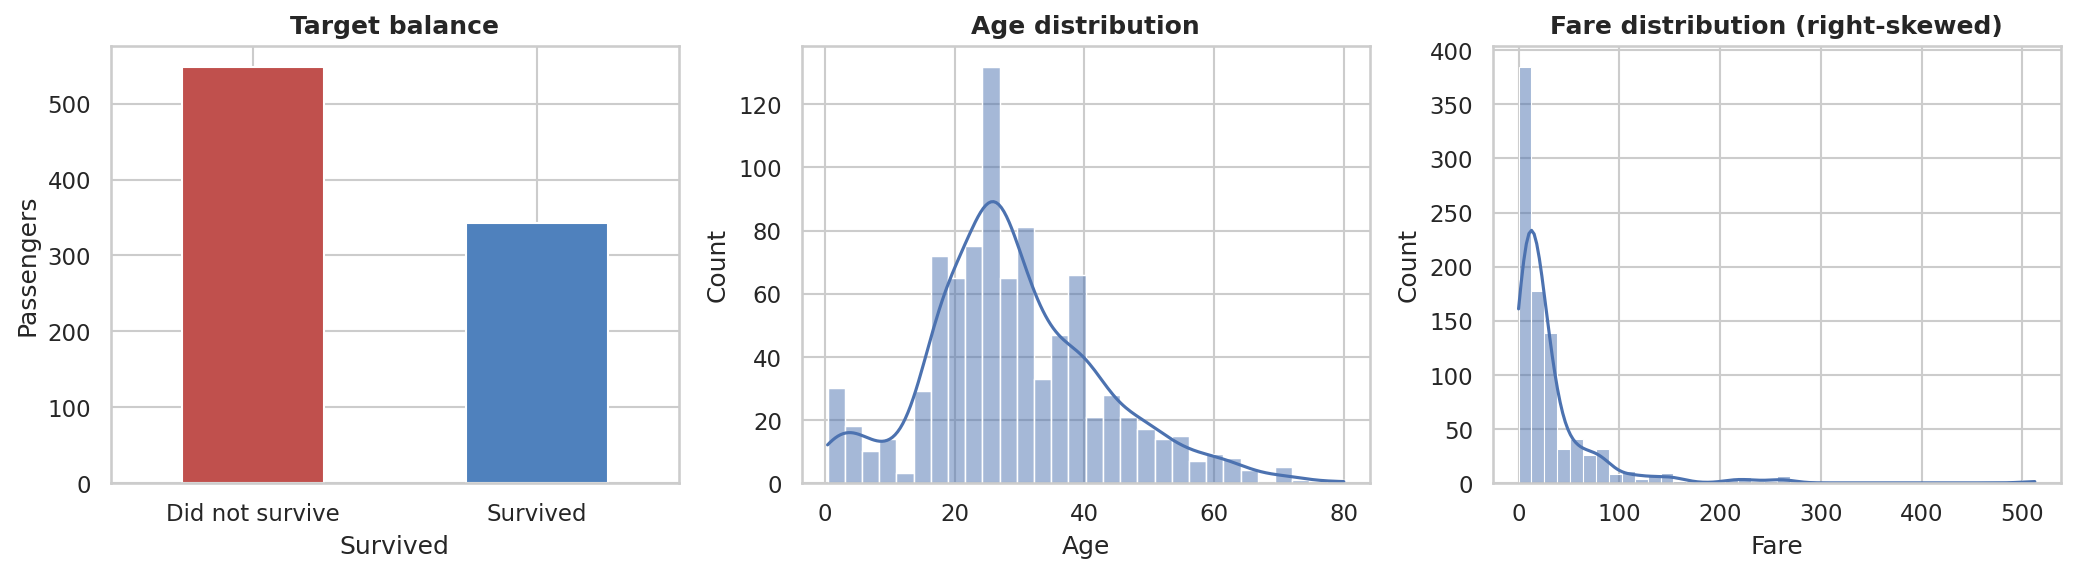
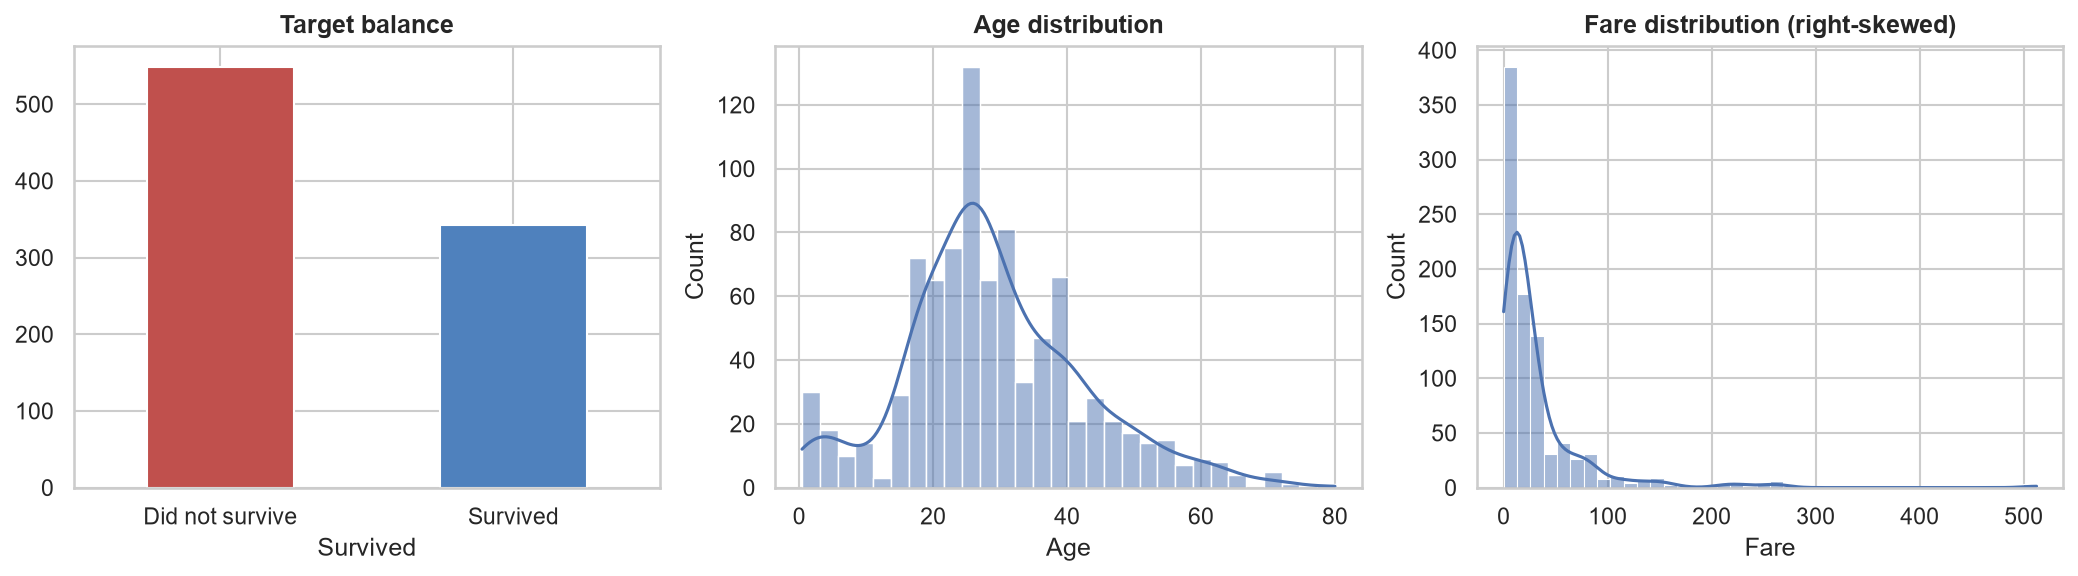
Add eda.py: run full EDA as a single script

diff --git a/src/eda.py b/src/eda.py
@@ -1,0 +1,205 @@
+"""
+eda.py  --  Task 2: Exploratory Data Analysis on the cleaned Titanic dataset.
+
+Run the whole analysis in one go from the project root:
+    python src/eda.py
+
+What it does:
+  1. Loads data/titanic_clean.csv (output of Task 1)
+  2. Prints summary statistics, survival rates and statistical tests
+  3. Saves 8 charts to reports/figures/
+  4. Prints the key insights at the end
+
+Add --show to also pop up each chart window (close a window to continue).
+"""
+
+import argparse
+import os
+
+import matplotlib
+import numpy as np
+import pandas as pd
+from scipy import stats
+
+parser = argparse.ArgumentParser()
+parser.add_argument("--input", default="data/titanic_clean.csv")
+parser.add_argument("--figdir", default="reports/figures")
+parser.add_argument("--show", action="store_true", help="display charts as pop-up windows")
+args = parser.parse_args()
+
+if not args.show:
+    matplotlib.use("Agg")  # save-only mode, no windows
+
+import matplotlib.pyplot as plt  # noqa: E402
+import seaborn as sns  # noqa: E402
+
+sns.set_theme(style="whitegrid", palette="deep")
+plt.rcParams.update({"figure.dpi": 110, "axes.titlesize": 12, "axes.titleweight": "bold"})
+os.makedirs(args.figdir, exist_ok=True)
+pd.set_option("display.width", 140)
+pd.set_option("display.max_columns", 20)
+
+
+def section(title):
+    print("\n" + "=" * 70)
+    print(title)
+    print("=" * 70)
+
+
+def save(name):
+    plt.tight_layout()
+    path = os.path.join(args.figdir, f"{name}.png")
+    plt.savefig(path, dpi=150, bbox_inches="tight")
+    print(f"  [chart saved] {path}")
+    if args.show:
+        plt.show()
+    plt.close()
+
+
+# ---------------------------------------------------------------- 1. load
+section("1. LOAD DATA")
+df = pd.read_csv(args.input)
+df["Pclass"] = df["Pclass"].astype("category")
+print(f"Loaded {args.input}: {df.shape[0]} rows x {df.shape[1]} columns")
+print(f"Missing values: {int(df.isna().sum().sum())}")
+print(df.head())
+
+# ---------------------------------------------------------------- 2. stats
+section("2. SUMMARY STATISTICS")
+print(df[["Age", "SibSp", "Parch", "FamilySize", "Fare"]].describe().T.round(2))
+print(f"\nOverall survival rate: {df.Survived.mean() * 100:.1f}%")
+print(f"Skewness -> Fare: {df.Fare.skew():.2f} | Age: {df.Age.skew():.2f}")
+q1, q3 = df.Fare.quantile([0.25, 0.75])
+print(f"Fare outliers (1.5*IQR rule): {int((df.Fare > q3 + 1.5 * (q3 - q1)).sum())} passengers")
+
+# ---------------------------------------------------------------- 3. distributions
+section("3. DISTRIBUTIONS")
+fig, ax = plt.subplots(1, 3, figsize=(14, 4))
+df.Survived.map({0: "Did not survive", 1: "Survived"}).value_counts().plot.bar(
+    ax=ax[0], color=["#c0504d", "#4f81bd"], rot=0)
+ax[0].set_title("Target balance")
+sns.histplot(df.Age, bins=30, kde=True, ax=ax[1]); ax[1].set_title("Age distribution")
+sns.histplot(df.Fare, bins=40, kde=True, ax=ax[2]); ax[2].set_title("Fare distribution (right-skewed)")
+save("01_target_age_fare_distributions")
+
+fig, ax = plt.subplots(1, 2, figsize=(11, 4))
+sns.histplot(np.log1p(df.Fare), bins=30, kde=True, ax=ax[0]); ax[0].set_title("log(1 + Fare) is far more symmetric")
+sns.boxplot(x=df.Fare, ax=ax[1]); ax[1].set_title("Fare outliers")
+save("02_fare_log_and_outliers")
+
+# ---------------------------------------------------------------- 4. survival by category
+section("4. SURVIVAL BY SEX, CLASS AND PORT")
+fig, ax = plt.subplots(1, 3, figsize=(14, 4))
+for a, col in zip(ax, ["Sex", "Pclass", "Embarked"]):
+    sns.barplot(data=df, x=col, y="Survived", errorbar=("ci", 95), ax=a)
+    a.set_title(f"Survival rate by {col}"); a.set_ylim(0, 1)
+save("03_survival_by_sex_class_port")
+for col in ["Sex", "Pclass", "Embarked"]:
+    print(f"\nSurvival rate by {col}:")
+    print(df.groupby(col, observed=True).Survived.agg(["mean", "count"]).round(3))
+
+pivot = df.pivot_table(index="Sex", columns="Pclass", values="Survived", aggfunc="mean", observed=True)
+plt.figure(figsize=(6, 3.5))
+sns.heatmap(pivot, annot=True, fmt=".2f", cmap="RdYlGn", vmin=0, vmax=1)
+plt.title("Survival rate: Sex x Class")
+save("04_heatmap_sex_class")
+print("\nSurvival rate: Sex x Class")
+print(pivot.round(2))
+
+# ---------------------------------------------------------------- 5. age, fare, family
+section("5. AGE, FARE AND FAMILY EFFECTS")
+df["AgeBand"] = pd.cut(df.Age, [0, 12, 18, 35, 60, 100],
+                       labels=["Child (0-12)", "Teen (13-18)", "Adult (19-35)", "Middle (36-60)", "Senior (60+)"])
+df["FareQuartile"] = pd.qcut(df.Fare, 4, labels=["Q1 (lowest)", "Q2", "Q3", "Q4 (highest)"])
+fig, ax = plt.subplots(1, 2, figsize=(12, 4))
+sns.barplot(data=df, x="AgeBand", y="Survived", errorbar=None, ax=ax[0])
+ax[0].set_title("Survival by age band"); ax[0].tick_params(axis="x", rotation=20)
+sns.barplot(data=df, x="FareQuartile", y="Survived", errorbar=None, ax=ax[1])
+ax[1].set_title("Survival by fare quartile")
+save("05_survival_by_age_and_fare")
+print(df.groupby("AgeBand", observed=True).Survived.agg(["mean", "count"]).round(3))
+print(df.groupby("FareQuartile", observed=True).Survived.agg(["mean", "count"]).round(3))
+
+fs = df.groupby("FamilySize").Survived.agg(["mean", "count"]).reset_index()
+fig, ax = plt.subplots(1, 2, figsize=(12, 4))
+sns.barplot(data=fs, x="FamilySize", y="mean", ax=ax[0]); ax[0].set_title("Survival by family size"); ax[0].set_ylabel("Survival rate")
+sns.barplot(data=df.assign(IsAlone=df.IsAlone.map({True: "Alone", False: "With family"})),
+            x="IsAlone", y="Survived", errorbar=None, ax=ax[1]); ax[1].set_title("Alone vs. with family")
+save("06_family_size_and_alone")
+print("\nSurvival by family size:")
+print(fs.round(3).to_string(index=False))
+
+# ---------------------------------------------------------------- 6. title, deck
+section("6. TITLE AND DECK")
+fig, ax = plt.subplots(1, 2, figsize=(12, 4))
+sns.barplot(data=df, x="Title", y="Survived", errorbar=None, order=["Mr", "Master", "Rare", "Miss", "Mrs"], ax=ax[0])
+ax[0].set_title("Survival by title")
+order = df.groupby("Deck").Survived.mean().sort_values().index
+sns.barplot(data=df, x="Deck", y="Survived", errorbar=None, order=order, ax=ax[1])
+ax[1].set_title("Survival by deck ('Unknown' = no cabin recorded)")
+save("07_title_and_deck")
+print(df.groupby("Title").Survived.agg(["mean", "count"]).round(3))
+print(df.groupby("Deck").Survived.agg(["mean", "count"]).round(3).sort_values("count", ascending=False))
+
+# ---------------------------------------------------------------- 7. correlations
+section("7. CORRELATIONS")
+num = df[["Survived", "Pclass", "Age", "Fare", "SibSp", "Parch", "FamilySize"]].copy()
+num["Pclass"] = num["Pclass"].astype(int)
+corr = num.corr()
+plt.figure(figsize=(7, 5.5))
+sns.heatmap(corr, annot=True, fmt=".2f", cmap="coolwarm", center=0, square=True)
+plt.title("Correlation matrix (Pearson)")
+save("08_correlation_matrix")
+print(corr.round(2))
+
+# ---------------------------------------------------------------- 8. tests
+section("8. STATISTICAL TESTS")
+rows = []
+for c in ["Sex", "Pclass", "Embarked", "IsAlone", "Deck", "Title"]:
+    ct = pd.crosstab(df[c], df["Survived"])
+    chi2, p, _, _ = stats.chi2_contingency(ct)
+    v = np.sqrt(chi2 / (len(df) * (min(ct.shape) - 1)))
+    rows.append({"feature": c, "chi2": round(chi2, 1), "p_value": f"{p:.2e}", "cramers_v": round(v, 3)})
+print(pd.DataFrame(rows).sort_values("cramers_v", ascending=False).to_string(index=False))
+u = stats.mannwhitneyu(df[df.Survived == 1].Fare, df[df.Survived == 0].Fare)
+print(f"\nFare, survivors vs non-survivors (Mann-Whitney U): p = {u.pvalue:.2e}")
+print(f"  median fare -> survived: {df[df.Survived == 1].Fare.median():.2f} | died: {df[df.Survived == 0].Fare.median():.2f}")
+u2 = stats.mannwhitneyu(df[df.Survived == 1].Age, df[df.Survived == 0].Age)
+print(f"Age,  survivors vs non-survivors (Mann-Whitney U): p = {u2.pvalue:.3f}  (not significant)")
+
+# ---------------------------------------------------------------- 9. imputation check
+section("9. DATA-QUALITY CHECK: TASK 1 AGE IMPUTATION")
+print(df.groupby("AgeWasMissing").Survived.agg(["mean", "count"]).round(3))
+print(f"Age std -> real: {df[~df.AgeWasMissing].Age.std():.1f} | imputed: {df[df.AgeWasMissing].Age.std():.1f}")
+
+# ---------------------------------------------------------------- 10. insights
+section("10. KEY INSIGHTS")
+f = df.groupby("Sex").Survived.mean()
+c = df.groupby("Pclass", observed=True).Survived.mean()
+print(f"""
+1. SEX/TITLE ARE THE STRONGEST PREDICTORS
+   Women survived at {f['female']*100:.1f}% vs {f['male']*100:.1f}% for men. Keep Sex/Title as core features.
+
+2. CLASS INTERACTS WITH SEX
+   Survival by class: 1st {c[1]*100:.0f}% | 2nd {c[2]*100:.0f}% | 3rd {c[3]*100:.0f}%.
+   1st-class women 97% vs 3rd-class men 14%. Use an interaction term or a tree-based model.
+
+3. FARE IS SKEWED AND TIED TO CLASS
+   Skew {df.Fare.skew():.1f}; correlation with Pclass {corr.loc['Fare','Pclass']:.2f}. Use log1p(Fare); watch multicollinearity.
+
+4. FAMILY SIZE IS NON-LINEAR
+   Alone 30%, families of 2-4 people 55-72%, 5+ collapses. Bin it (alone/small/large); never use it linearly.
+
+5. TITLE BEATS RAW AGE
+   Mr 16% vs Master 58%, Mrs 79%, Miss 70%. Age correlation with survival is only {corr.loc['Age','Survived']:.2f} (not significant).
+
+6. A RECORDED CABIN MOSTLY MEANS FIRST CLASS
+   Deck known: 59-76% survival vs 30% for Unknown, but cabins exist for 81% of 1st class and 2% of 3rd.
+
+7. EMBARKATION EFFECT IS PROBABLY CONFOUNDED
+   Cherbourg 55% vs Southampton 34%, but 51% of Cherbourg passengers were 1st class.
+
+8. MISSING AGE IS INFORMATIVE
+   Survival 29% (age missing) vs 41% (age known). Keep the AgeWasMissing flag.
+""")
+print(f"Done. {len(os.listdir(args.figdir))} charts are in {args.figdir}/")
